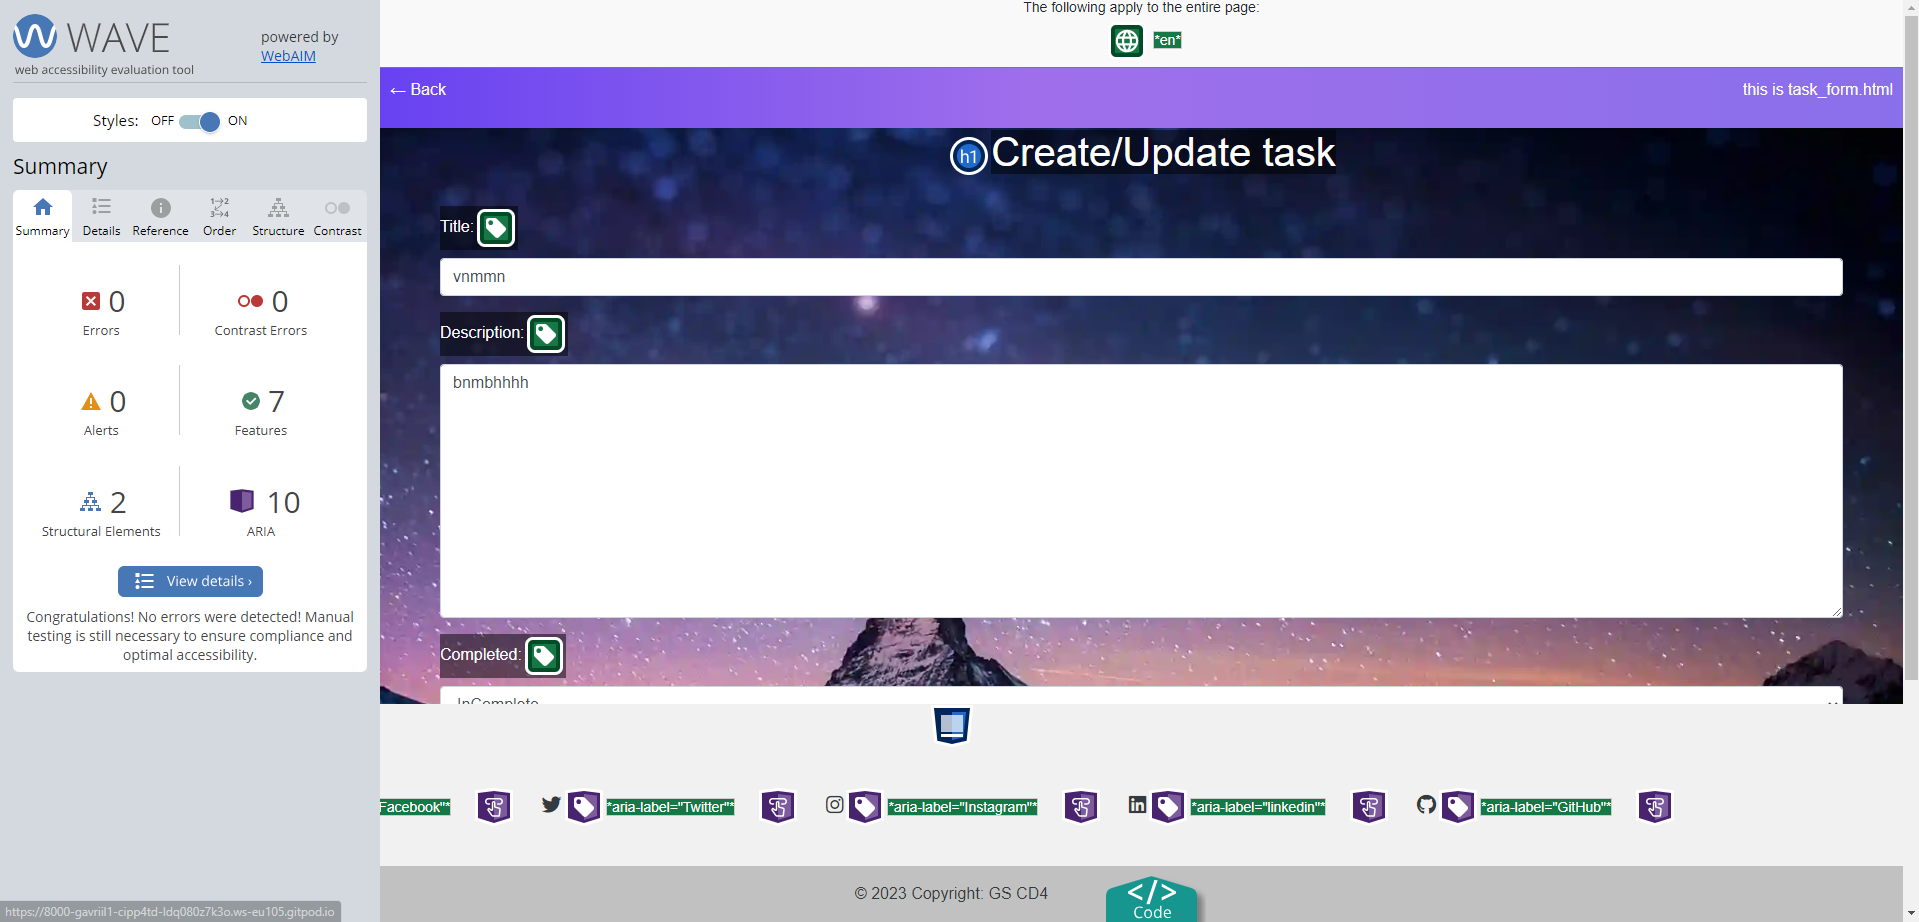
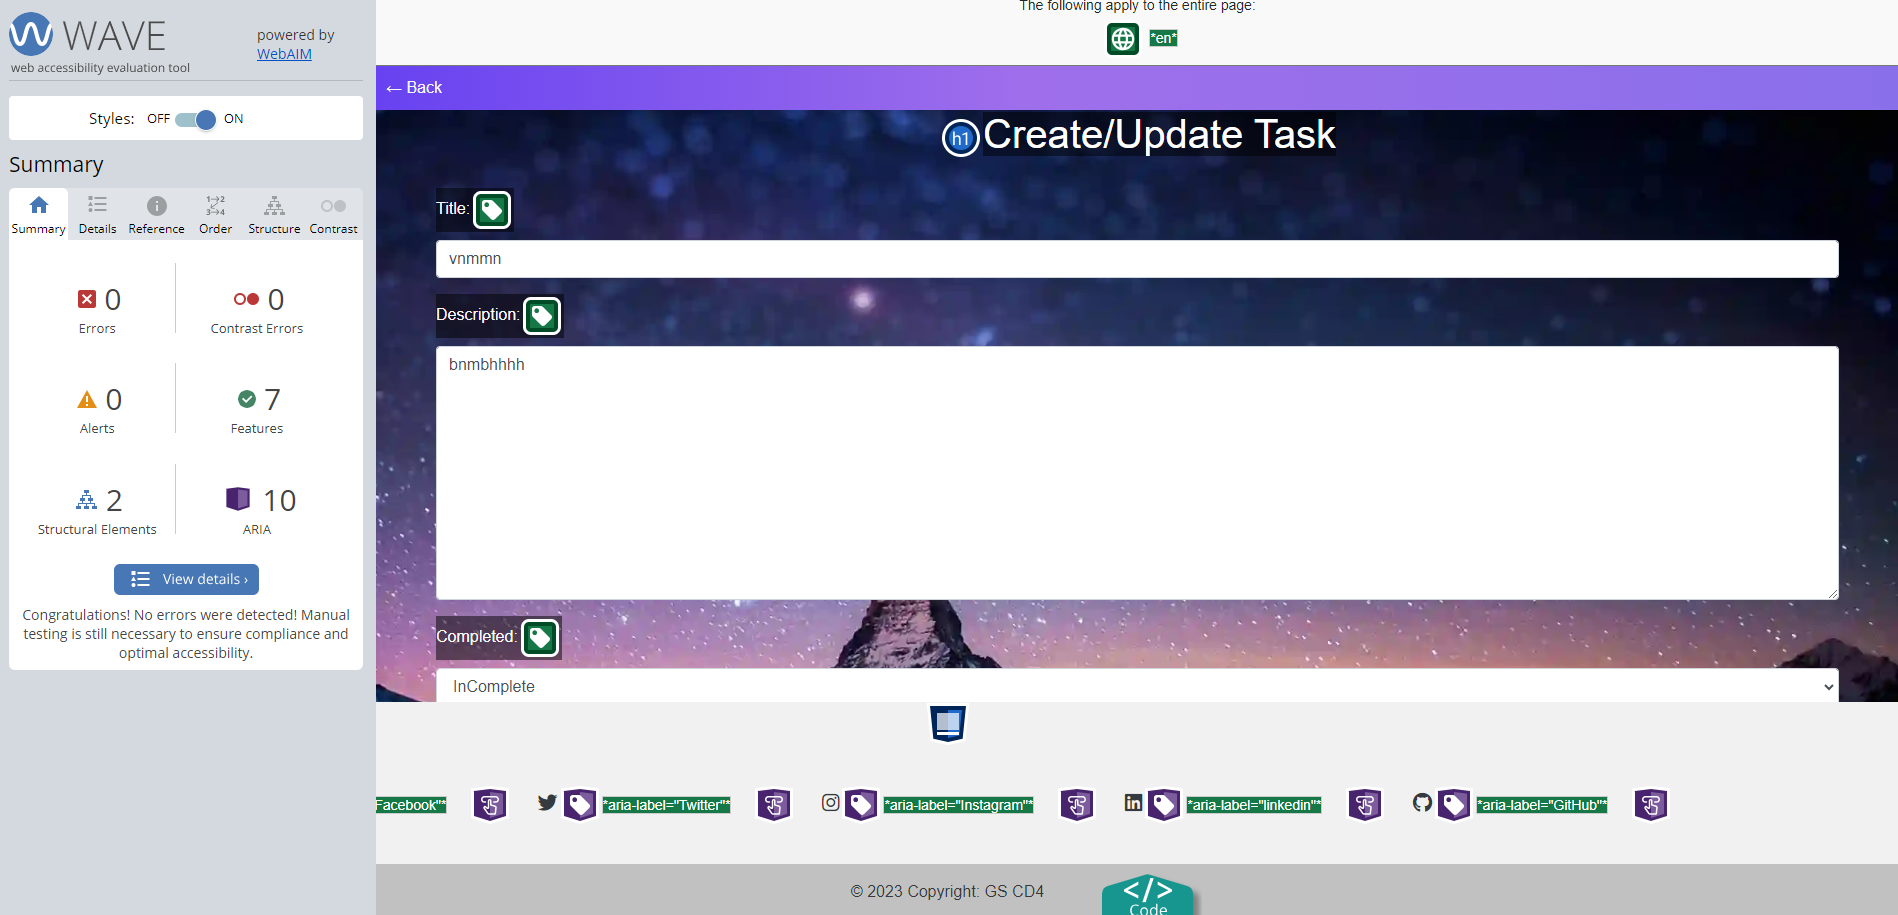
added feedback, manual,Delete task,

diff --git a/templates/todoapp-create-update-delete/task_form.html b/templates/todoapp-create-update-delete/task_form.html
@@ -10,9 +10,9 @@
     <body class="body_task_form">
         <div class="header_bar_task_form">
             <a href="{% url 'tasks' %}">&#8592; Back</a>
-            <p>this is task_form.html</p>
+            
         </div>
-        <h1 class="text-center text-white"><span style="background-color: rgba(0,0,0,0.5);">Create/Update task</span></h1>
+        <h1 class="text-white text-center"><span style="background-color: rgba(0,0,0,0.5);">Create/Update Task</span></h1>
     <div class="card_body_task_form">
         <form method="POST">
             {%csrf_token%}

diff --git a/templates/todoapp-create-update-delete/task_confirm_delete.html b/templates/todoapp-create-update-delete/task_confirm_delete.html
@@ -13,7 +13,7 @@
 	<div class="d-flex justify-content-center h-100">
 		<div class="card_delete">
 			<div class="card-header">
-				<h3 class="text-white text-center">Delete The Task ?</h3>
+				<h1 class="text-white text-center">Delete The Task ?</h1>
 			</div>
 			<div class="card-body">
 				<form method="POST">

diff --git a/todo_list/settings.py b/todo_list/settings.py
@@ -24,7 +24,7 @@ SECRET_KEY = "SECRET_KEY"
 
 # SECURITY WARNING: don't run with debug turned on in production!
 # Debug to false
-DEBUG = False
+DEBUG = True
 
 ALLOWED_HOSTS = ['*']
 

diff --git a/README.md b/README.md
@@ -905,22 +905,22 @@ This happens because I used icons instead of text to create links
 
 <details><summary>Create/Update Task</summary>
 <img src="docs/validation/accessibility/create-update-task-1.png">
-<img src="docs/validation/accessibility/create-update-task-1.png">
+<img src="docs/validation/accessibility/create-update-task-2.png">
 </details>
 
-<details><summary>Books</summary>
-<img src="https://raw.githubusercontent.com/ArronBeale/CI_PP4_the_diplomat/main/docs/validation/wave-booking.PNG">
-<img src="https://raw.githubusercontent.com/ArronBeale/CI_PP4_the_diplomat/main/docs/validation/wave-booking2.PNG">
+<details><summary>Delete Tasks</summary>
+<img src="docs/validation/accessibility/delete-waive-1.png">
+<img src="docs/validation/accessibility/delete-waive-2.png">
 </details>
 
-<details><summary>My Bookings</summary>
-<img src="https://raw.githubusercontent.com/ArronBeale/CI_PP4_the_diplomat/main/docs/validation/wave-booking-list.PNG">
-<img src="https://raw.githubusercontent.com/ArronBeale/CI_PP4_the_diplomat/main/docs/validation/wave-booking-list2.PNG">
+<details><summary>Manual</summary>
+<img src="docs/validation/accessibility/manual-waive-1.png">
+<img src="docs/validation/accessibility/manual-waive-2.png">
 </details>
 
-<details><summary>Edit Booking</summary>
-<img src="https://raw.githubusercontent.com/ArronBeale/CI_PP4_the_diplomat/main/docs/validation/wave-edit-booking.PNG">
-<img src="https://raw.githubusercontent.com/ArronBeale/CI_PP4_the_diplomat/main/docs/validation/wave-edit-booking2.PNG">
+<details><summary>Feedback</summary>
+<img src="docs/validation/accessibility/feedback-waive-1.png">
+<img src="docs/validation/accessibility/feedback-waive-2.png">
 </details>
 
 <details><summary>Cancel Booking</summary>
